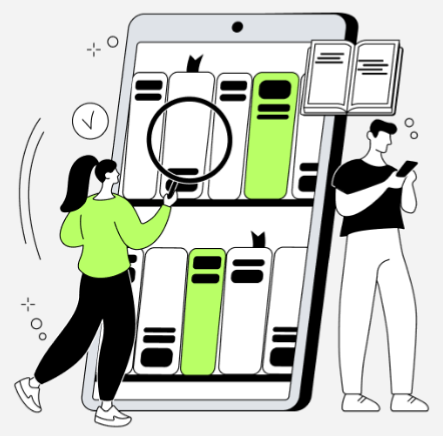
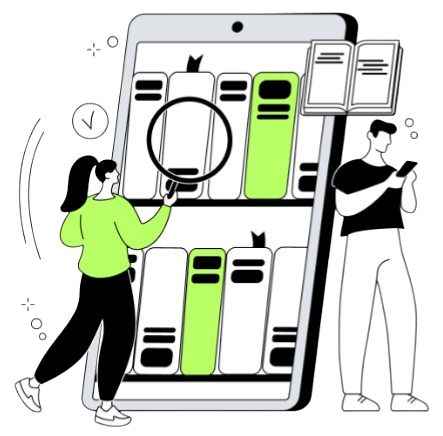
style: adjust background

diff --git a/index.html b/index.html
@@ -10,10 +10,25 @@
             background-image: url("image/background.jpg");
             background-size: cover;
             background-repeat: no-repeat;
+            margin: 0;
+        }
+
+        .header {
+            display: flex;
+            align-items: center;
+            justify-content: space-between;
+            padding: 10px 20px;
+            background: #5D866C;
         }
 
         .logo img {
             width: 50px;
+
+        }
+
+        .icon img {
+            width: 30px;
+
         }
     </style>
 
@@ -26,9 +41,23 @@
         </div>
 
         <div class="icon">
-            <img src="image/" </div>
+            <a href="https://www.instagram.com/jx._.666?igsh=MTFoYnNsMGh0aGlxag==" target="_blank">
+                <img src="image/instagram.png" alt="instagram">
+            </a>
 
+            <a href="https://wa.me/qr/5ZUX6YZGGYV4E1" target="_blank">
+                <img src="image/whatsapp.png" alt="whatsapp">
+            </a>
+
+            <a href="https://github.com/yapjiaxuan/yapjiaxuan.github.io" target="_blank">
+                <img src="image/github.png" alt="github">
+            </a>
         </div>
+    </div>
+
+    <div class="content">
+
+    </div>
 
 </body>
 

diff --git a/week4/usecase.html b/week4/usecase.html
@@ -255,9 +255,19 @@
                 font-size: 18px;
             }
 
+            .center {
+                background: none;
+
+            }
+
         }
 
         @media screen and (max-width:780px) {
+            .center {
+                background: none;
+
+            }
+
             .request-quote {
                 display: none;
             }
